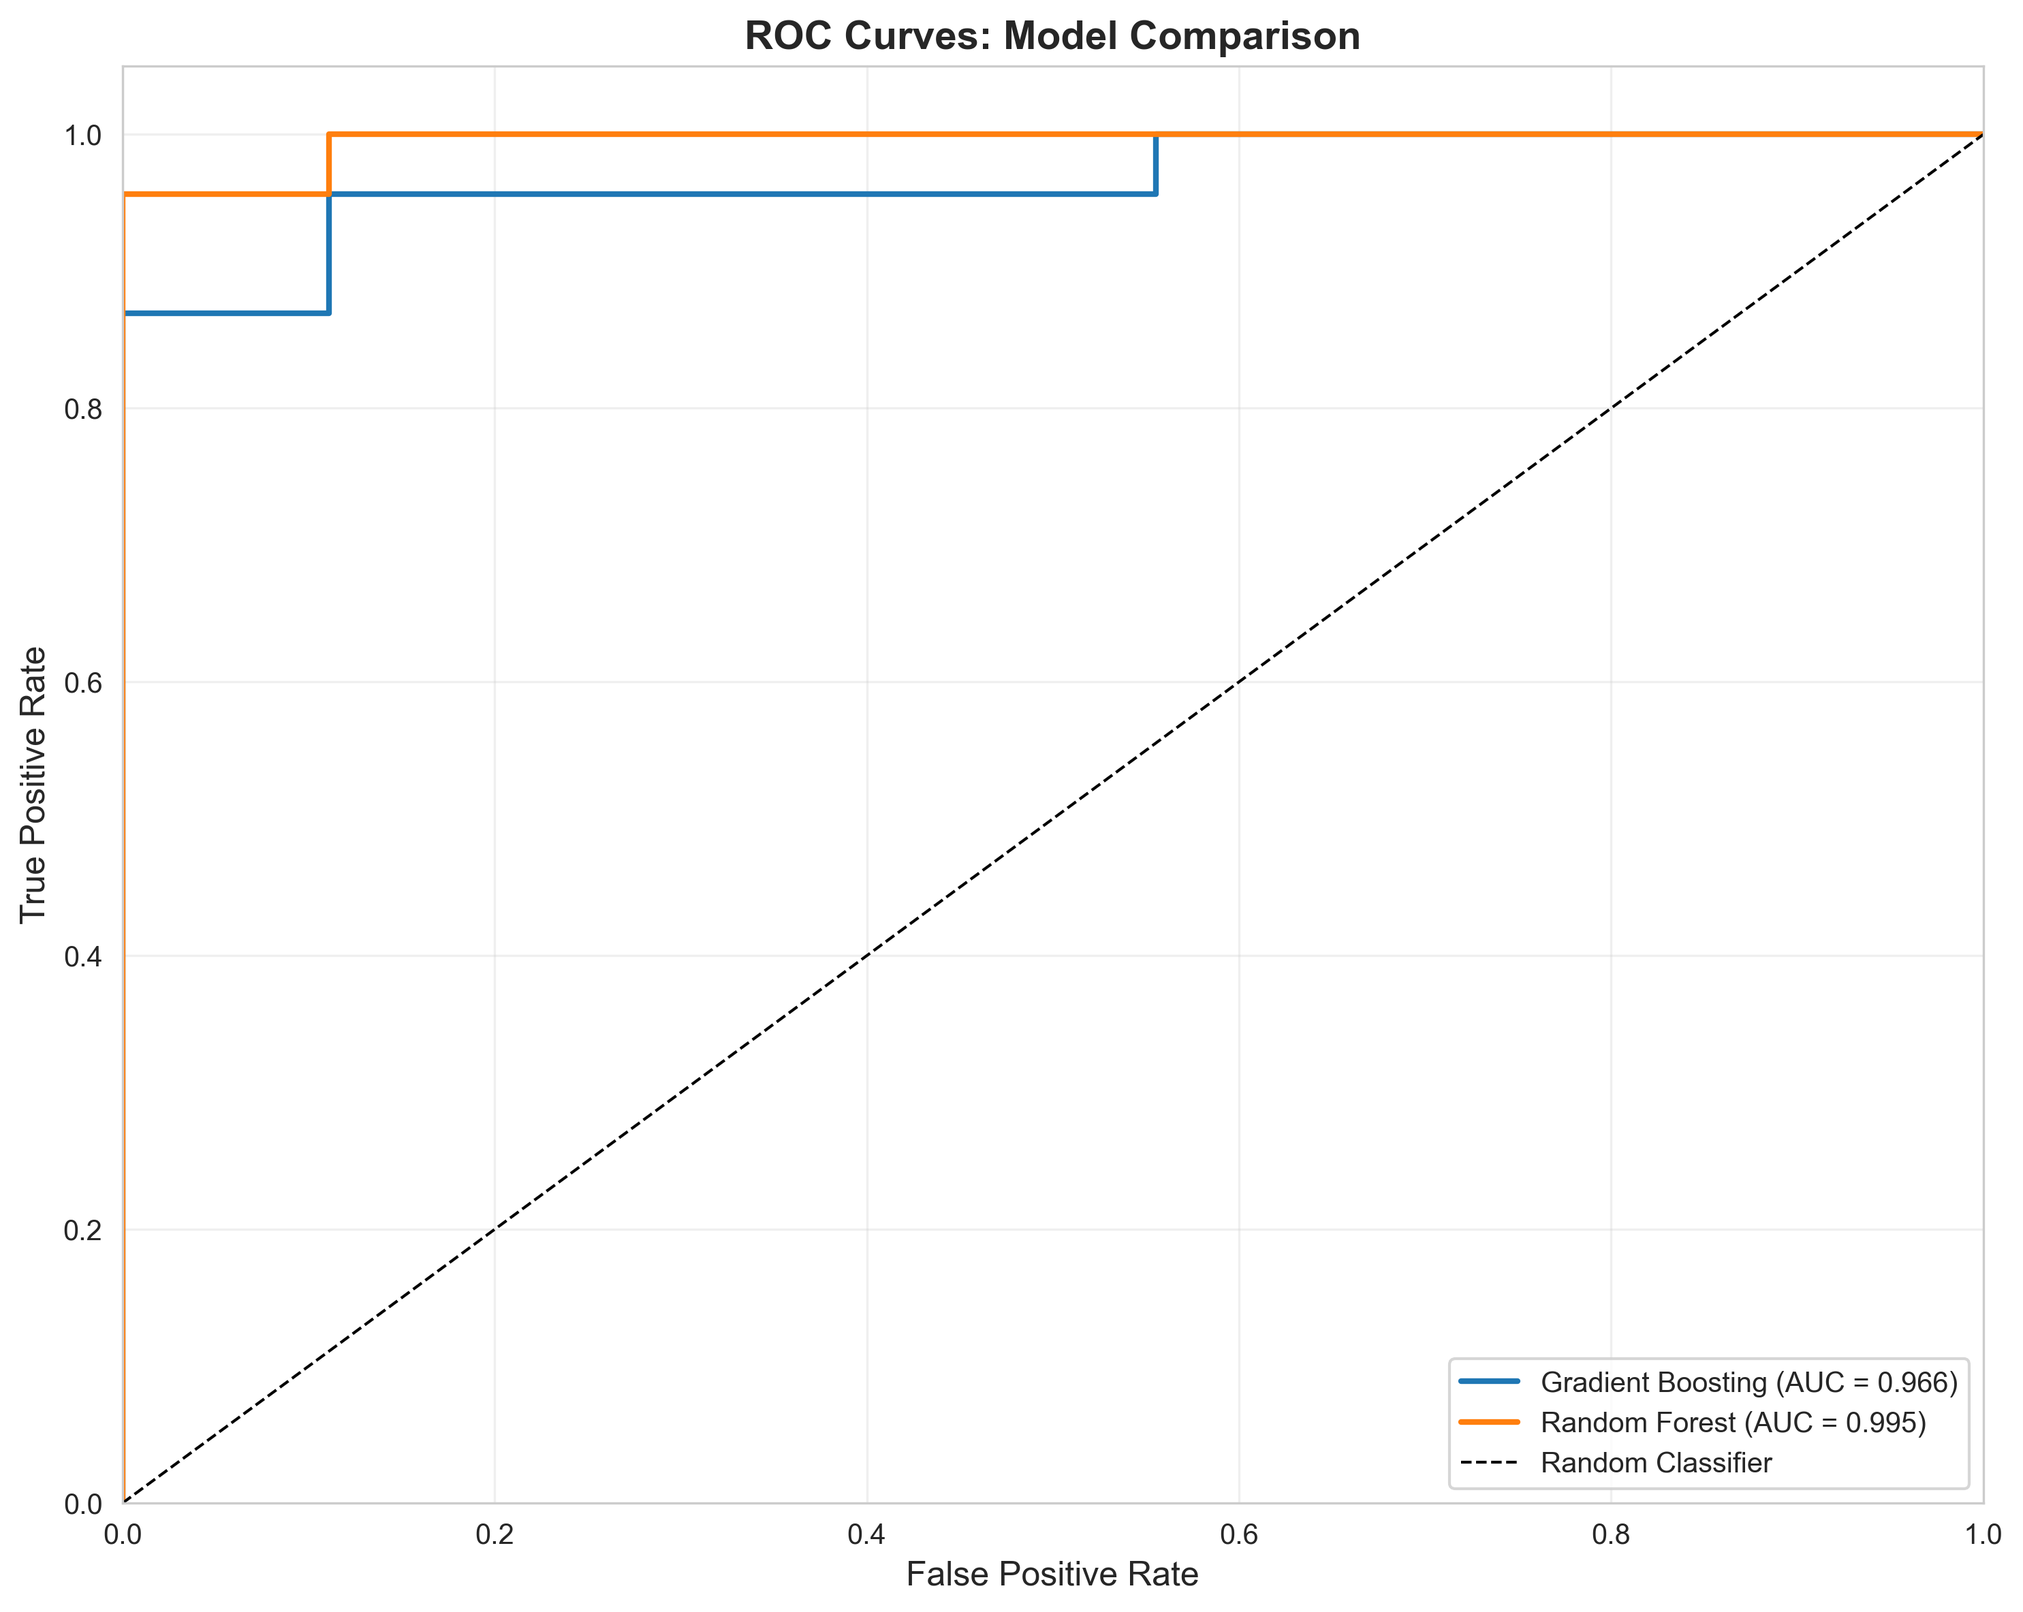
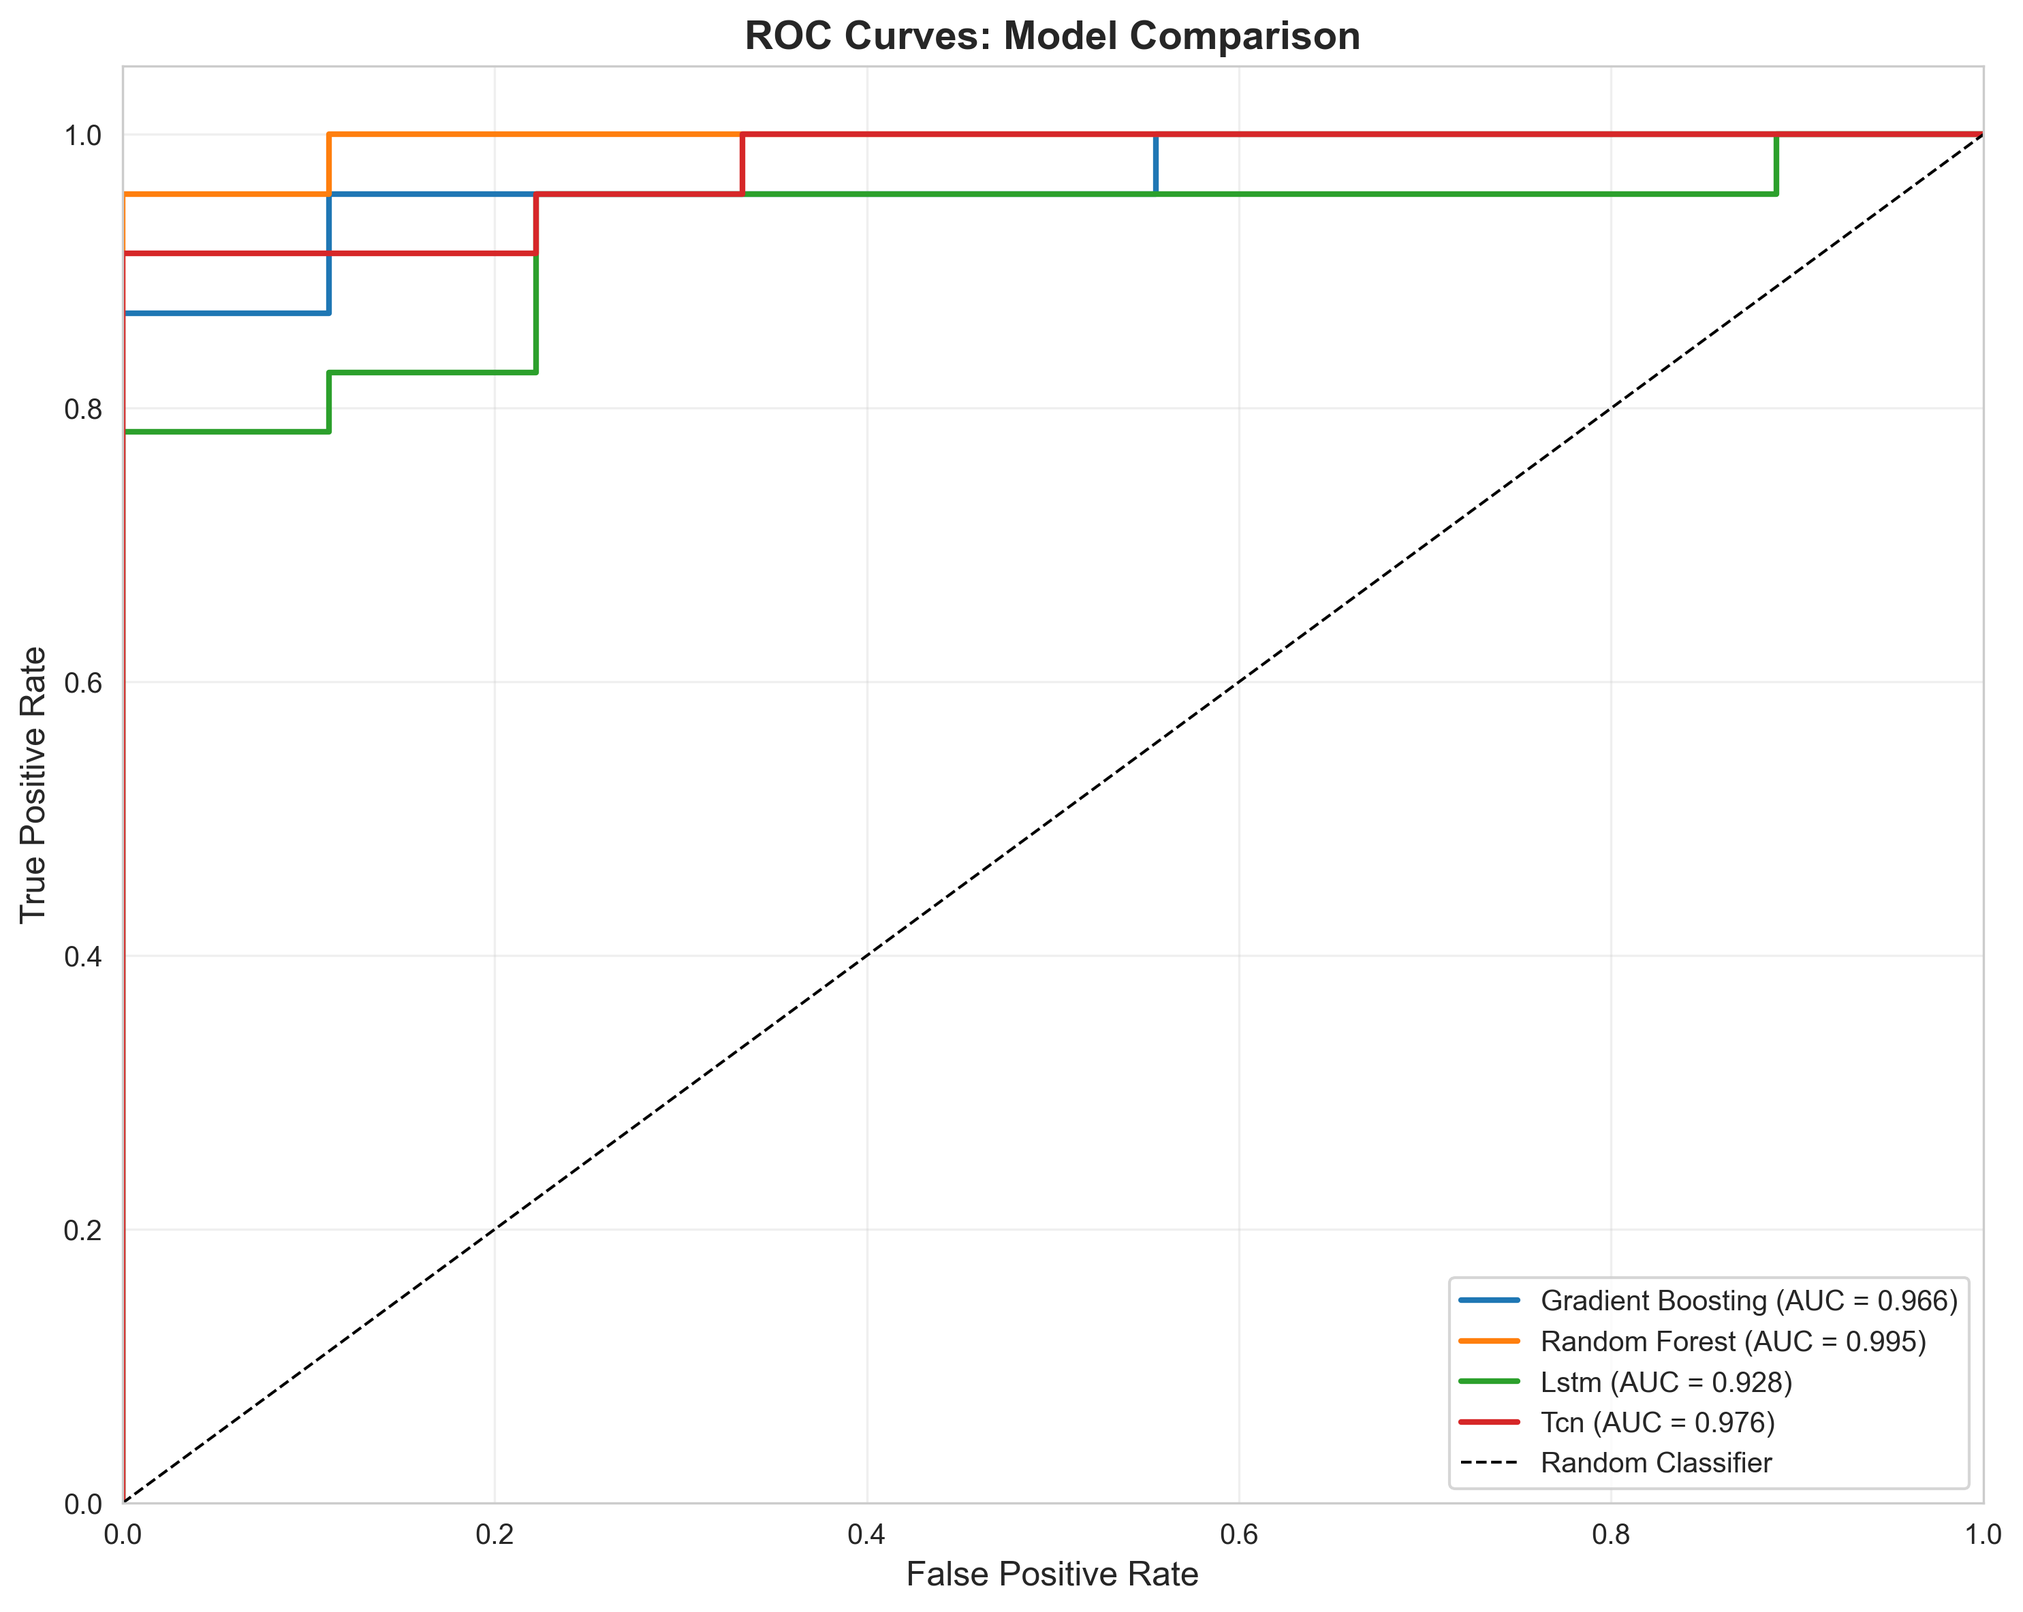
Initial commit: South Sudan Flood Prediction System

Changed region(s): [[0.2788, 0.0617, 0.9603, 0.1234], [0.7125, 0.8019, 0.9603, 0.8944], [0.062, 0.1234, 0.2788, 0.2776]]

diff --git a/backend/ml_pipeline/05_evaluate_tune.py b/backend/ml_pipeline/05_evaluate_tune.py
@@ -26,6 +26,15 @@ import seaborn as sns
 import warnings
 warnings.filterwarnings('ignore')
 
+# Import PyTorch for TCN/LSTM evaluation
+try:
+    import torch
+    import torch.nn as nn
+    TORCH_AVAILABLE = True
+except ImportError:
+    TORCH_AVAILABLE = False
+    print("⚠ PyTorch not available. TCN and LSTM evaluation will be skipped.")
+
 # Set plotting style
 sns.set_style("whitegrid")
 plt.rcParams['figure.figsize'] = (12, 8)
@@ -34,6 +43,47 @@ plt.rcParams['figure.figsize'] = (12, 8)
 PIPELINE_DIR = Path(__file__).parent
 OUTPUT_DIR = PIPELINE_DIR / "outputs"
 MODELS_DIR = OUTPUT_DIR / "04_trained_models"
+
+# Define PyTorch model architectures (must match training)
+class TCNModel(nn.Module):
+    """Temporal Convolutional Network for time series flood prediction"""
+    def __init__(self, input_dim, num_channels=[64, 32], kernel_size=3, dropout=0.4):
+        super(TCNModel, self).__init__()
+        self.tcn_layers = nn.ModuleList()
+        in_channels = 1
+        
+        for out_channels in num_channels:
+            self.tcn_layers.append(nn.Sequential(
+                nn.Conv1d(in_channels, out_channels, kernel_size, padding=kernel_size//2),
+                nn.BatchNorm1d(out_channels),
+                nn.ReLU(),
+                nn.Dropout(dropout)
+            ))
+            in_channels = out_channels
+        
+        self.fc = nn.Linear(num_channels[-1] * input_dim, 2)
+    
+    def forward(self, x):
+        x = x.unsqueeze(1)  # (batch, 1, features)
+        for layer in self.tcn_layers:
+            x = layer(x)
+        x = x.flatten(1)
+        return self.fc(x)
+
+class LSTMModel(nn.Module):
+    """LSTM Network for sequential flood forecasting"""
+    def __init__(self, input_dim, hidden_dim=64, num_layers=2, dropout=0.2):
+        super(LSTMModel, self).__init__()
+        self.lstm = nn.LSTM(
+            input_dim, hidden_dim, num_layers,
+            batch_first=True, dropout=dropout if num_layers > 1 else 0
+        )
+        self.fc = nn.Linear(hidden_dim, 2)
+    
+    def forward(self, x):
+        x = x.unsqueeze(1)  # (batch, 1, features)
+        lstm_out, _ = self.lstm(x)
+        return self.fc(lstm_out[:, -1, :])
 
 print("=" * 80)
 print("STEP 5: EVALUATE AND TUNE")
@@ -59,11 +109,33 @@ print(f" Loaded test data: {X_test.shape}")
 
 # Load models
 models = {}
+
+# Load scikit-learn models (.pkl files)
 for model_file in MODELS_DIR.glob("*.pkl"):
     if model_file.stem in ['random_forest', 'gradient_boosting']:
         model = joblib.load(model_file)
         models[model_file.stem] = model
         print(f" Loaded: {model_file.name}")
+
+# Load PyTorch models (.pt files)
+if TORCH_AVAILABLE:
+    for model_file in MODELS_DIR.glob("*.pt"):
+        if model_file.stem in ['tcn_model', 'lstm_model']:
+            checkpoint = torch.load(model_file, map_location=torch.device('cpu'))
+            hyperparams = checkpoint['hyperparameters']
+            
+            if model_file.stem == 'tcn_model':
+                model = TCNModel(**hyperparams)
+                model.load_state_dict(checkpoint['model_state_dict'])
+                model.eval()
+                models['tcn'] = model
+                print(f" Loaded: {model_file.name}")
+            elif model_file.stem == 'lstm_model':
+                model = LSTMModel(**hyperparams)
+                model.load_state_dict(checkpoint['model_state_dict'])
+                model.eval()
+                models['lstm'] = model
+                print(f" Loaded: {model_file.name}")
 
 if not models:
     print(f" ERROR: No trained models found")
@@ -81,9 +153,19 @@ for name, model in models.items():
     print(f"MODEL: {name.upper().replace('_', ' ')}")
     print(f"{'=' * 80}")
     
-    # Predictions
-    y_pred = model.predict(X_test)
-    y_pred_proba = model.predict_proba(X_test)[:, 1]
+    # Predictions (handle PyTorch models differently)
+    if name in ['tcn', 'lstm']:
+        # PyTorch model predictions
+        model.eval()
+        with torch.no_grad():
+            X_test_tensor = torch.FloatTensor(X_test.astype(np.float32))
+            outputs = model(X_test_tensor)
+            y_pred_proba = torch.softmax(outputs, dim=1)[:, 1].numpy()
+            y_pred = (y_pred_proba >= 0.5).astype(int)
+    else:
+        # Scikit-learn model predictions
+        y_pred = model.predict(X_test)
+        y_pred_proba = model.predict_proba(X_test)[:, 1]
     
     # Metrics
     acc = accuracy_score(y_test, y_pred)
@@ -153,13 +235,24 @@ cv = StratifiedKFold(n_splits=5, shuffle=True, random_state=42)
 
 print(f"\n   Running 5-fold cross-validation on {len(df)} samples...")
 for name, model in models.items():
-    cv_scores = cross_val_score(model, X_full, y_full, cv=cv, scoring='accuracy')
-    results[name]['cross_validation'] = {
-        'mean_accuracy': float(cv_scores.mean()),
-        'std_accuracy': float(cv_scores.std()),
-        'fold_scores': [float(s) for s in cv_scores]
-    }
-    print(f"   {name:20s}: {cv_scores.mean():.3f} ± {cv_scores.std():.3f}")
+    # Skip CV for PyTorch models (would require custom implementation)
+    if name in ['tcn', 'lstm']:
+        print(f"   {name:20s}: Skipped (PyTorch model)")
+        results[name]['cross_validation'] = {
+            'mean_accuracy': float(results[name]['test_metrics']['accuracy']),
+            'std_accuracy': 0.0,
+            'fold_scores': [float(results[name]['test_metrics']['accuracy'])] * 5,
+            'note': 'Using test accuracy (CV skipped for PyTorch models)'
+        }
+    else:
+        cv_scores = cross_val_score(model, X_full, y_full, cv=cv, scoring='accuracy')
+        results[name]['cross_validation'] = {
+            'mean_accuracy': float(cv_scores.mean()),
+            'std_accuracy': float(cv_scores.std()),
+            'fold_scores': [float(s) for s in cv_scores]
+        }
+        print(f"   {name:20s}: {cv_scores.mean():.3f} ± {cv_scores.std():.3f}")
+
 
 print(" Cross-validation complete")
 
@@ -176,9 +269,22 @@ viz_count = 0
 
 # Visualization 1: Confusion Matrices
 print("   Creating confusion matrices...")
-fig, axes = plt.subplots(1, len(models), figsize=(14, 6))
-if len(models) == 1:
+
+# Create proper subplot layout for number of models
+num_models = len(models)
+if num_models <= 2:
+    fig, axes = plt.subplots(1, num_models, figsize=(7 * num_models, 6))
+elif num_models <= 4:
+    fig, axes = plt.subplots(2, 2, figsize=(14, 12))
+else:
+    fig, axes = plt.subplots(2, 3, figsize=(18, 12))
+
+# Ensure axes is always iterable
+if num_models == 1:
     axes = [axes]
+else:
+    axes = axes.flatten()
+
 fig.suptitle('Confusion Matrices: Model Performance', fontsize=16, fontweight='bold')
 
 for idx, (name, model) in enumerate(models.items()):
@@ -209,7 +315,16 @@ print("   Creating ROC curves...")
 plt.figure(figsize=(10, 8))
 
 for name, model in models.items():
-    y_pred_proba = model.predict_proba(X_test)[:, 1]
+    # Handle PyTorch models differently
+    if name in ['tcn', 'lstm']:
+        model.eval()
+        with torch.no_grad():
+            X_test_tensor = torch.FloatTensor(X_test.astype(np.float32))
+            outputs = model(X_test_tensor)
+            y_pred_proba = torch.softmax(outputs, dim=1)[:, 1].numpy()
+    else:
+        y_pred_proba = model.predict_proba(X_test)[:, 1]
+    
     fpr, tpr, _ = roc_curve(y_test, y_pred_proba)
     auc = results[name]['test_metrics']['roc_auc']
     
@@ -354,7 +469,7 @@ plt.savefig(VIZ_DIR / '13_performance_summary.png', dpi=300, bbox_inches='tight'
 plt.close()
 viz_count += 1
 
-print(f"   ✓ Created {viz_count} evaluation visualizations")
+print(f"   [OK] Created {viz_count} evaluation visualizations")
 
 # ============================================================================
 # 4. SAVE EVALUATION REPORT

diff --git a/backend/app/services/model_service.py b/backend/app/services/model_service.py
@@ -609,7 +609,19 @@ class ModelService:
     
     @classmethod
     def predict_ensemble(cls, features: Dict[str, Any]) -> Tuple[float, float, Dict[str, float], float]:
-        """Ensemble prediction combining RF, GB, and TCN with weighted averaging"""
+        """Ensemble prediction combining RF, GB, and TCN with weighted averaging
+        
+        CONFIDENCE CALCULATION:
+        - Primary: Model agreement (1.0 - std_deviation of probabilities)
+        - Adjustment: Individual model confidence (entropy-based)
+        - Final: Weighted combination that reflects both agreement and certainty
+        
+        Returns:
+            - probability: Weighted average flood probability
+            - confidence: How certain we are (0-1), based on model agreement and individual confidences
+            - model_predictions: Individual model probabilities
+            - inference_time: Total time in milliseconds
+        """
         start_time = time.time()
         predictions = {}
         weights = {'rf': 0.4, 'gb': 0.4, 'tcn': 0.2}
@@ -654,20 +666,45 @@ class ModelService:
             for m in predictions.keys()
         ) / total_weight
         
-        # Confidence is average of individual confidences weighted by agreement
-        ensemble_conf = sum(
-            predictions[m]['confidence'] * weights[m] 
-            for m in predictions.keys()
-        ) / total_weight
+        # ==== FIXED CONFIDENCE CALCULATION ====
+        # Confidence based on MODEL AGREEMENT (how much they agree on the prediction)
+        probs = np.array([predictions[m]['probability'] for m in predictions.keys()])
         
-        # Boost confidence if models agree
-        if len(predictions) > 1:
-            probs = [predictions[m]['probability'] for m in predictions.keys()]
-            agreement = 1.0 - (max(probs) - min(probs))  # 1.0 if perfect agreement
-            ensemble_conf = min(0.99, ensemble_conf * (1.0 + 0.2 * agreement))
+        if len(predictions) == 1:
+            # Single model: use its confidence directly
+            ensemble_conf = list(predictions.values())[0]['confidence']
+        else:
+            # Multiple models: confidence = agreement + individual certainty
+            
+            # 1. Agreement score: How close are the predictions?
+            #    - If all models predict ~0.80, agreement is HIGH
+            #    - If models predict 0.30, 0.50, 0.90, agreement is LOW
+            prob_std = np.std(probs)
+            # Convert std to agreement: low std = high agreement
+            # Max possible std for probabilities [0,1] is 0.5
+            agreement_score = 1.0 - min(prob_std / 0.3, 1.0)  # Normalize to 0-1
+            
+            # 2. Average individual confidence (entropy-based from each model)
+            avg_individual_conf = np.mean([predictions[m]['confidence'] for m in predictions.keys()])
+            
+            # 3. Combine: 70% weight on agreement, 30% on individual confidence
+            #    This means: "We trust ensemble when models agree, even if individual entropy is high"
+            ensemble_conf = 0.7 * agreement_score + 0.3 * avg_individual_conf
+            
+            # 4. Extreme disagreement penalty: If max-min > 0.3, significantly reduce confidence
+            disagreement = np.max(probs) - np.min(probs)
+            if disagreement > 0.3:
+                penalty = 1.0 - min((disagreement - 0.3) / 0.4, 0.5)  # Up to 50% penalty
+                ensemble_conf *= penalty
+                logger.warning(f"High model disagreement ({disagreement:.2f}): RF={probs[0]:.2f}, GB={probs[1] if len(probs)>1 else 'N/A'}. Confidence reduced to {ensemble_conf:.2%}")
+        
+        # Ensure confidence is in valid range
+        ensemble_conf = float(np.clip(ensemble_conf, 0.0, 0.99))
         
         model_predictions = {m: predictions[m]['probability'] for m in predictions.keys()}
         inference_time = (time.time() - start_time) * 1000
+        
+        logger.info(f"Ensemble result: prob={ensemble_prob:.3f}, conf={ensemble_conf:.3f}, agreement_std={prob_std:.3f if len(predictions) > 1 else 0.0}")
         
         return float(ensemble_prob), float(ensemble_conf), model_predictions, inference_time
 

diff --git a/backend/app/api/routes.py b/backend/app/api/routes.py
@@ -177,20 +177,35 @@ async def create_prediction(
         # Get risk level
         risk_level = ModelService.get_risk_level(probability)
         
-        # PRODUCTION: Low Confidence Handling (60% threshold)
+        # PRODUCTION: Confidence-Based Risk Adjustment
+        # RULE: Never show "high" or "critical" risk if confidence < 60%
         is_reliable = confidence >= 0.60
         warning_message = None
         
         if not is_reliable:
-            warning_message = (
-                f"Low confidence prediction ({confidence:.1%}). "
-                f"Model uncertainty is high - manual verification recommended. "
-                f"This may indicate: (1) location far from training data regions, "
-                f"(2) unusual environmental conditions, or (3) insufficient satellite data quality."
-            )
+            # Downgrade risk level for low confidence predictions
+            if risk_level in ["critical", "high"]:
+                original_risk = risk_level
+                risk_level = "uncertain"  # Force to uncertain instead of contradicting
+                warning_message = (
+                    f"Low confidence prediction ({confidence:.1%}). "
+                    f"Models suggest {original_risk} risk ({probability:.1%} flood probability), "
+                    f"but prediction reliability is insufficient for alert. "
+                    f"Possible reasons: (1) High model disagreement (RF: {model_predictions.get('rf', 'N/A') if model_predictions else 'N/A':.1%}, "
+                    f"GB: {model_predictions.get('gb', 'N/A') if model_predictions else 'N/A':.1%}), "
+                    f"(2) Location outside training data coverage, or (3) Unusual environmental conditions. "
+                    f"Manual verification strongly recommended."
+                )
+            else:
+                warning_message = (
+                    f"Low confidence prediction ({confidence:.1%}). "
+                    f"Model uncertainty is high - treat result with caution. "
+                    f"Consider collecting more ground truth data for this region."
+                )
+            
             logger.warning(
                 f"Low confidence prediction: {confidence:.1%} at ({request.latitude}, {request.longitude}). "
-                f"Probability: {probability:.2%}"
+                f"Probability: {probability:.2%}, Risk downgraded to: {risk_level}"
             )
         
         # Save to database
